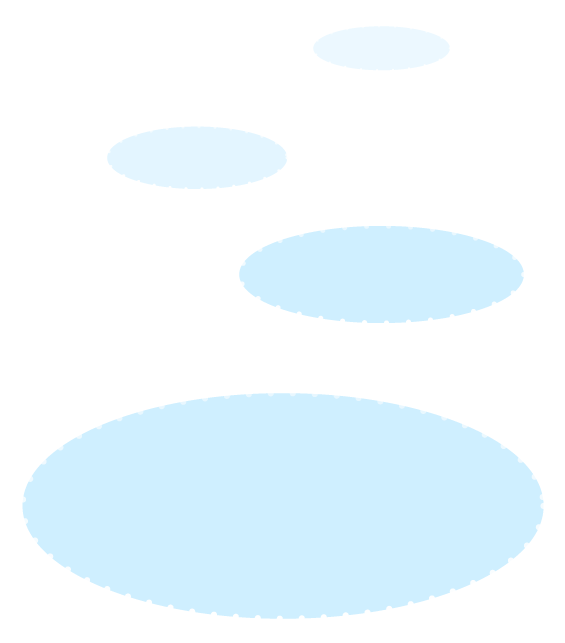
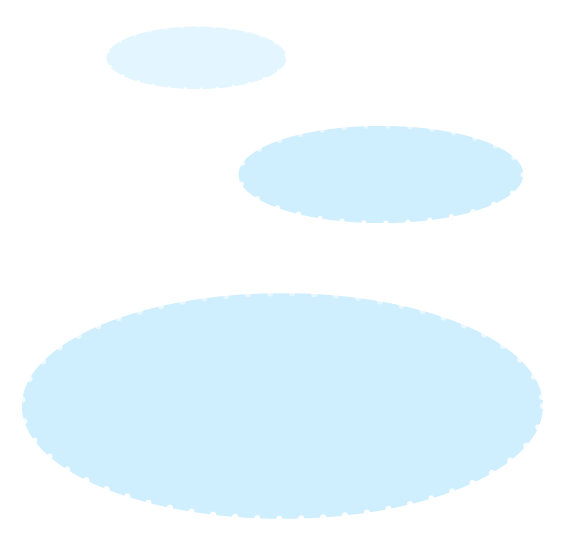
UP

Changed region(s): [[0.1805, 0.0295, 0.9327, 0.5009], [0.0301, 0.5304, 0.9628, 0.9724]]

diff --git a/dolphin1.html b/dolphin1.html
@@ -161,12 +161,10 @@ to{opacity: 1;}
 #img8_3{left: 50%;top: 57%;z-index: 3;width: 55%;transform: translate(-50%,-50%);opacity: 0;}
 #img8_4{left: 65%;top: 45%;z-index: 4;width: 25%;transform: translate(-50%,-50%);opacity: 0;}
 #img8_5{left: 40%;top: 37%;z-index: 5;width: 15%;transform: translate(-50%,-50%);opacity: 0;}
-#img8_6{left: 62%;top: 32%;z-index: 6;width: 12%;transform: translate(-50%,-50%);opacity: 0;}
 .add #img8_2{animation-delay: 1.2s;animation-name: img8;}
 .add #img8_3{animation-delay: 1.4s;animation-name: img8;}
 .add #img8_4{animation-delay: 1.6s;animation-name: img8;}
 .add #img8_5{animation-delay: 1.8s;animation-name: img8;}
-.add #img8_6{animation-delay: 2s;animation-name: img8;}
 @keyframes img8{
 from{opacity: 0;}
 to{opacity: 1;}
@@ -294,7 +292,6 @@ img{max-width: unset;}
             <img src="/InfoViz-Lab/assets/images/new/8_3.png" id="img8_3" class="img_asu"><!--3벨루가-->
             <img src="/InfoViz-Lab/assets/images/new/8_4.png" id="img8_4" class="img_asu"><!--4돌고래-->
             <img src="/InfoViz-Lab/assets/images/new/8_5.png" id="img8_5" class="img_asu"><!--5미니돌고래-->
-            <img src="/InfoViz-Lab/assets/images/new/8_6.png" id="img8_6" class="img_asu"><!--6미니벨루가-->
         </div>
         <div id="s9" class="section page">
             <div class="text_style">

diff --git a/dolphin2.html b/dolphin2.html
@@ -177,12 +177,10 @@ to{opacity: 1;}
 #img8_3{left: 50%;top: 57%;z-index: 3;width: 55%;transform: translate(-50%,-50%);opacity: 0;}
 #img8_4{left: 65%;top: 45%;z-index: 4;width: 25%;transform: translate(-50%,-50%);opacity: 0;}
 #img8_5{left: 40%;top: 37%;z-index: 5;width: 15%;transform: translate(-50%,-50%);opacity: 0;}
-#img8_6{left: 62%;top: 32%;z-index: 6;width: 12%;transform: translate(-50%,-50%);opacity: 0;}
 .add #img8_2{animation-delay: 1.2s;animation-name: img8;}
 .add #img8_3{animation-delay: 1.4s;animation-name: img8;}
 .add #img8_4{animation-delay: 1.6s;animation-name: img8;}
 .add #img8_5{animation-delay: 1.8s;animation-name: img8;}
-.add #img8_6{animation-delay: 2s;animation-name: img8;}
 @keyframes img8{
 from{opacity: 0;}
 to{opacity: 1;}
@@ -313,7 +311,6 @@ img{max-width: unset;}
             <img src="/InfoViz-Lab/assets/images/new/8_3.png" id="img8_3" class="img_asu"><!--3벨루가-->
             <img src="/InfoViz-Lab/assets/images/new/8_4.png" id="img8_4" class="img_asu"><!--4돌고래-->
             <img src="/InfoViz-Lab/assets/images/new/8_5.png" id="img8_5" class="img_asu"><!--5미니돌고래-->
-            <img src="/InfoViz-Lab/assets/images/new/8_6.png" id="img8_6" class="img_asu"><!--6미니벨루가-->
         </div>
         <div id="s9" class="section page">
             <div class="text_style">

diff --git a/dolphin3.html b/dolphin3.html
@@ -177,12 +177,10 @@ to{opacity: 1;}
 #img8_3{left: 50%;top: 57%;z-index: 3;width: 55%;transform: translate(-50%,-50%);opacity: 0;}
 #img8_4{left: 65%;top: 45%;z-index: 4;width: 25%;transform: translate(-50%,-50%);opacity: 0;}
 #img8_5{left: 40%;top: 37%;z-index: 5;width: 15%;transform: translate(-50%,-50%);opacity: 0;}
-#img8_6{left: 62%;top: 32%;z-index: 6;width: 12%;transform: translate(-50%,-50%);opacity: 0;}
 .add #img8_2{animation-delay: 1.2s;animation-name: img8;}
 .add #img8_3{animation-delay: 1.4s;animation-name: img8;}
 .add #img8_4{animation-delay: 1.6s;animation-name: img8;}
 .add #img8_5{animation-delay: 1.8s;animation-name: img8;}
-.add #img8_6{animation-delay: 2s;animation-name: img8;}
 @keyframes img8{
 from{opacity: 0;}
 to{opacity: 1;}
@@ -313,7 +311,6 @@ img{max-width: unset;}
             <img src="/InfoViz-Lab/assets/images/new/8_3.png" id="img8_3" class="img_asu"><!--3벨루가-->
             <img src="/InfoViz-Lab/assets/images/new/8_4.png" id="img8_4" class="img_asu"><!--4돌고래-->
             <img src="/InfoViz-Lab/assets/images/new/8_5.png" id="img8_5" class="img_asu"><!--5미니돌고래-->
-            <img src="/InfoViz-Lab/assets/images/new/8_6.png" id="img8_6" class="img_asu"><!--6미니벨루가-->
         </div>
         <div id="s9" class="section page">
             <div class="text_style">

diff --git a/dolphin4.html b/dolphin4.html
@@ -177,12 +177,10 @@ to{opacity: 1;}
 #img8_3{left: 50%;top: 57%;z-index: 3;width: 55%;transform: translate(-50%,-50%);opacity: 0;}
 #img8_4{left: 65%;top: 45%;z-index: 4;width: 25%;transform: translate(-50%,-50%);opacity: 0;}
 #img8_5{left: 40%;top: 37%;z-index: 5;width: 15%;transform: translate(-50%,-50%);opacity: 0;}
-#img8_6{left: 62%;top: 32%;z-index: 6;width: 12%;transform: translate(-50%,-50%);opacity: 0;}
 .add #img8_2{animation-delay: 1.2s;animation-name: img8;}
 .add #img8_3{animation-delay: 1.4s;animation-name: img8;}
 .add #img8_4{animation-delay: 1.6s;animation-name: img8;}
 .add #img8_5{animation-delay: 1.8s;animation-name: img8;}
-.add #img8_6{animation-delay: 2s;animation-name: img8;}
 @keyframes img8{
 from{opacity: 0;}
 to{opacity: 1;}
@@ -313,7 +311,6 @@ img{max-width: unset;}
             <img src="/InfoViz-Lab/assets/images/new/8_3.png" id="img8_3" class="img_asu"><!--3벨루가-->
             <img src="/InfoViz-Lab/assets/images/new/8_4.png" id="img8_4" class="img_asu"><!--4돌고래-->
             <img src="/InfoViz-Lab/assets/images/new/8_5.png" id="img8_5" class="img_asu"><!--5미니돌고래-->
-            <img src="/InfoViz-Lab/assets/images/new/8_6.png" id="img8_6" class="img_asu"><!--6미니벨루가-->
         </div>
         <div id="s9" class="section page">
             <div class="text_style">
